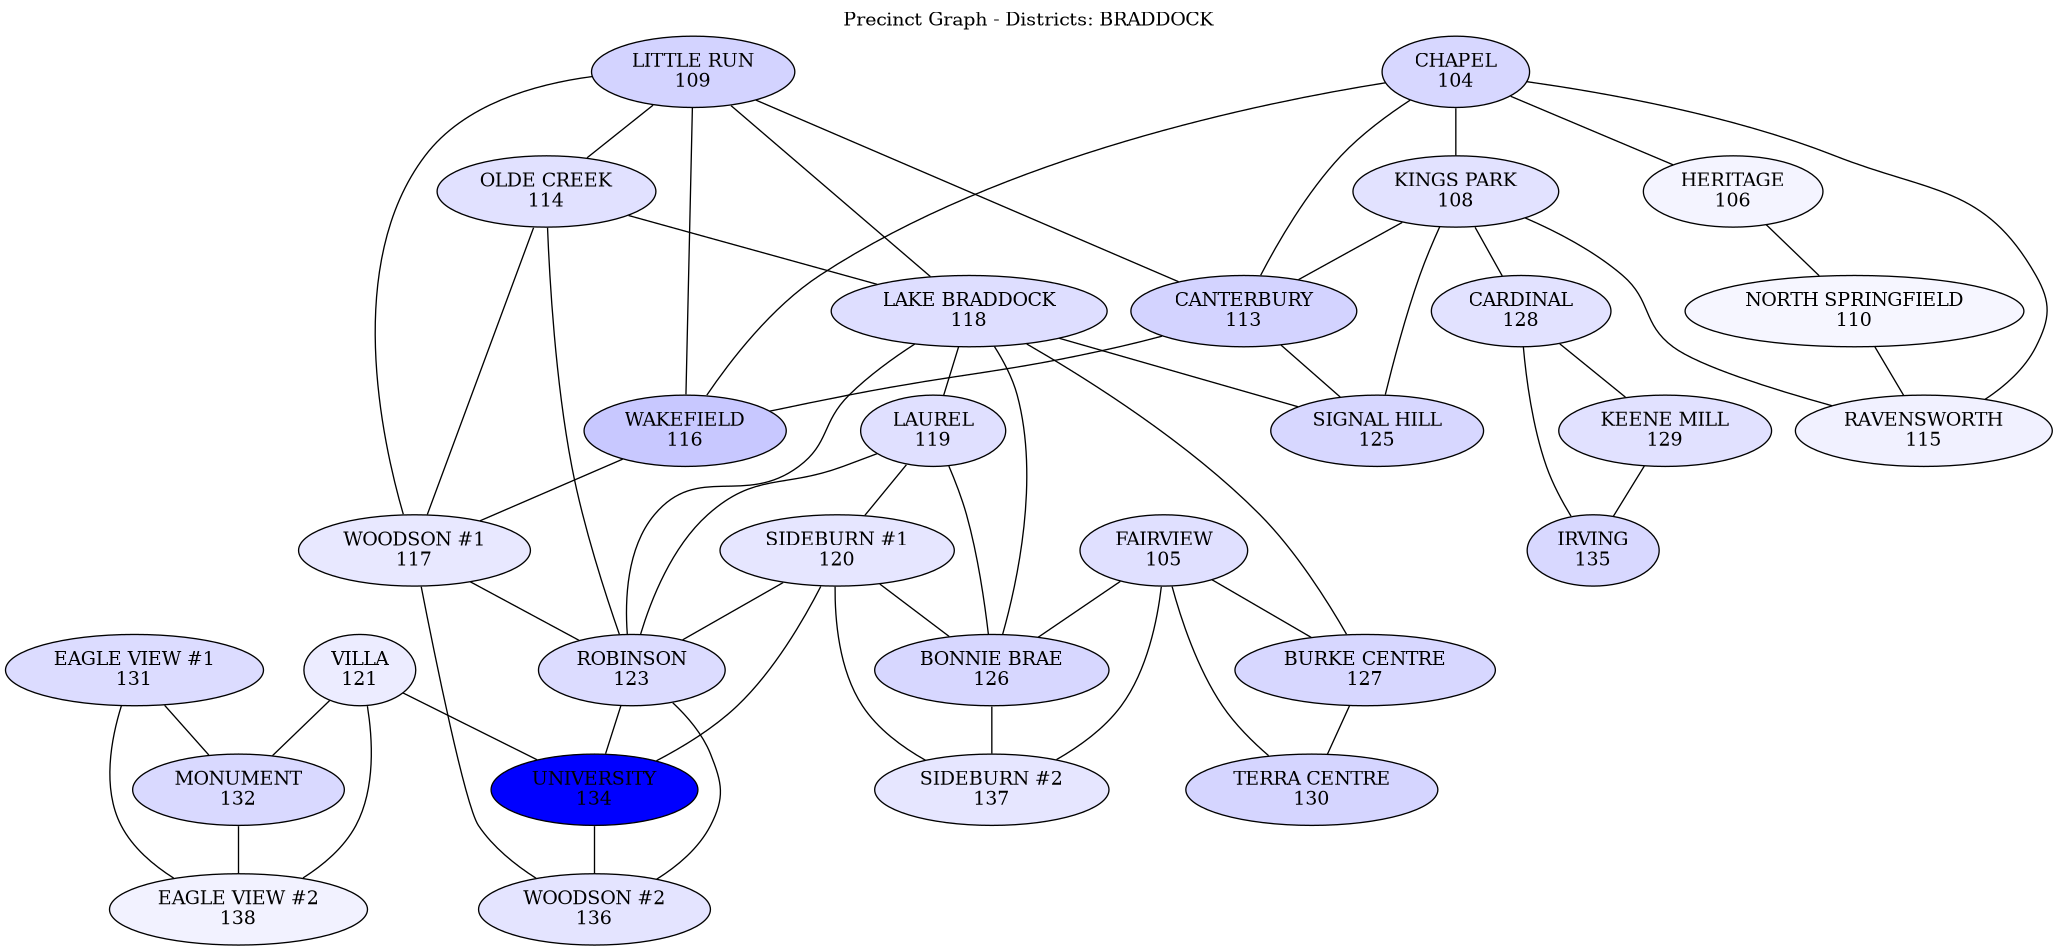
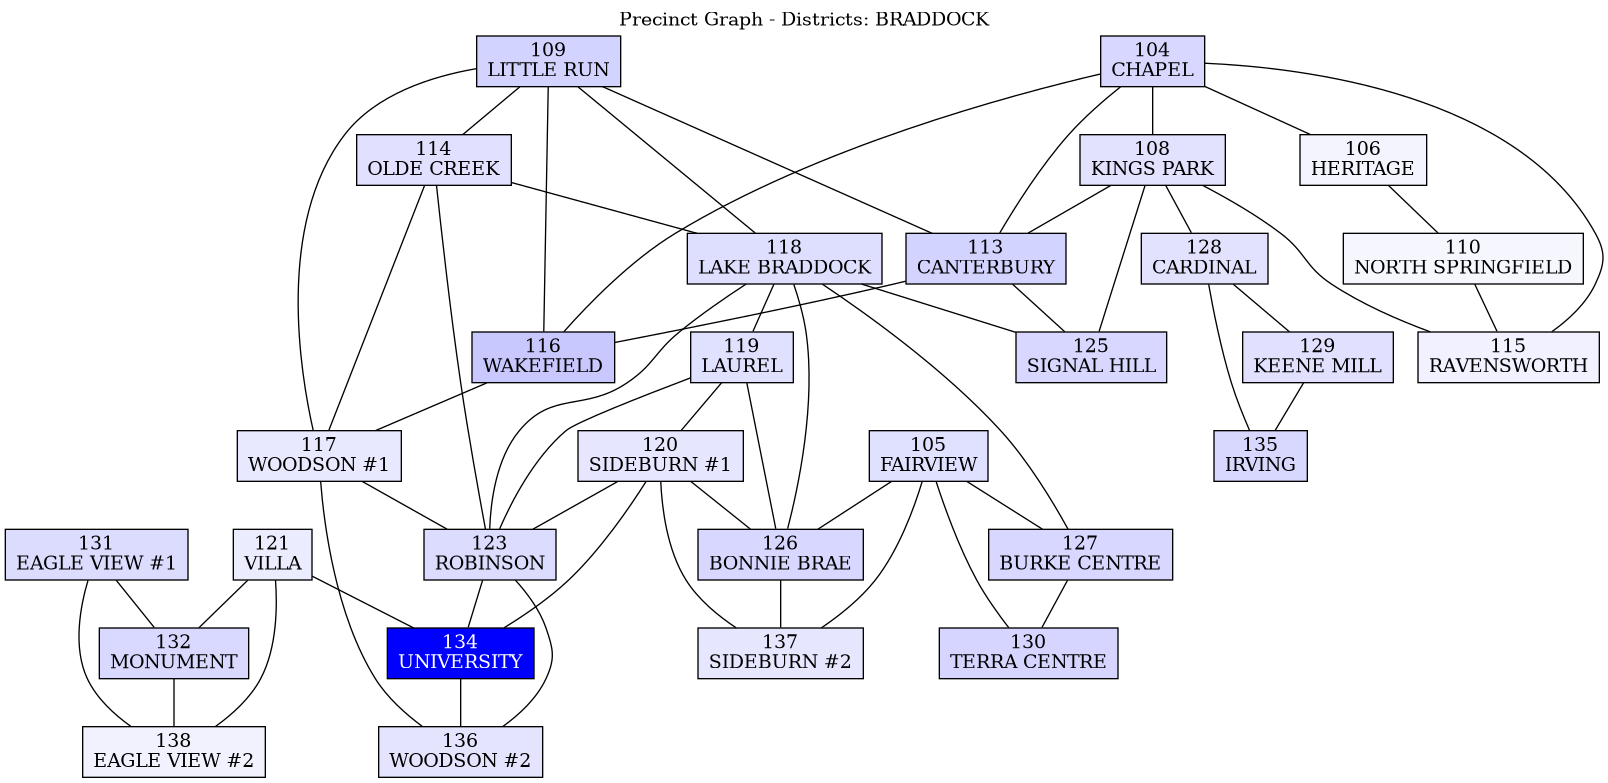
Enhance precinct graph by adding dynamic font color based on fill color for improved readability

diff --git a/src/createPrecinctGraph.js b/src/createPrecinctGraph.js
@@ -34,7 +34,13 @@ graph += 'edge [color="black"];\n';
 precincts.sort((a, b) => a.id - b.id).reverse();
 for (const precinct of precincts) {
     const fillColor = precinct.color || 'gray20';
-    graph += `${precinct.id} [label="${precinct.id}\\n${precinct.name}", fillcolor="${fillColor}"];\n`;
+    const notBlueHex = fillColor.slice(1, 5);
+    console.log(notBlueHex);
+    const notBlueValue = parseInt(notBlueHex, 16);
+    console.log(notBlueValue);
+    const textColor = notBlueValue < 0x9999 ? 'white' : 'black';
+    console.log(textColor);
+    graph += `${precinct.id} [label="${precinct.id}\\n${precinct.name}", fillcolor="${fillColor}", fontcolor="${textColor}"];\n`;
     for (const neighbor of precinct.neighbors) {
         if (precinct.id < neighbor) { // to avoid duplicate edges
             graph += `${precinct.id} -- ${neighbor};\n`;
